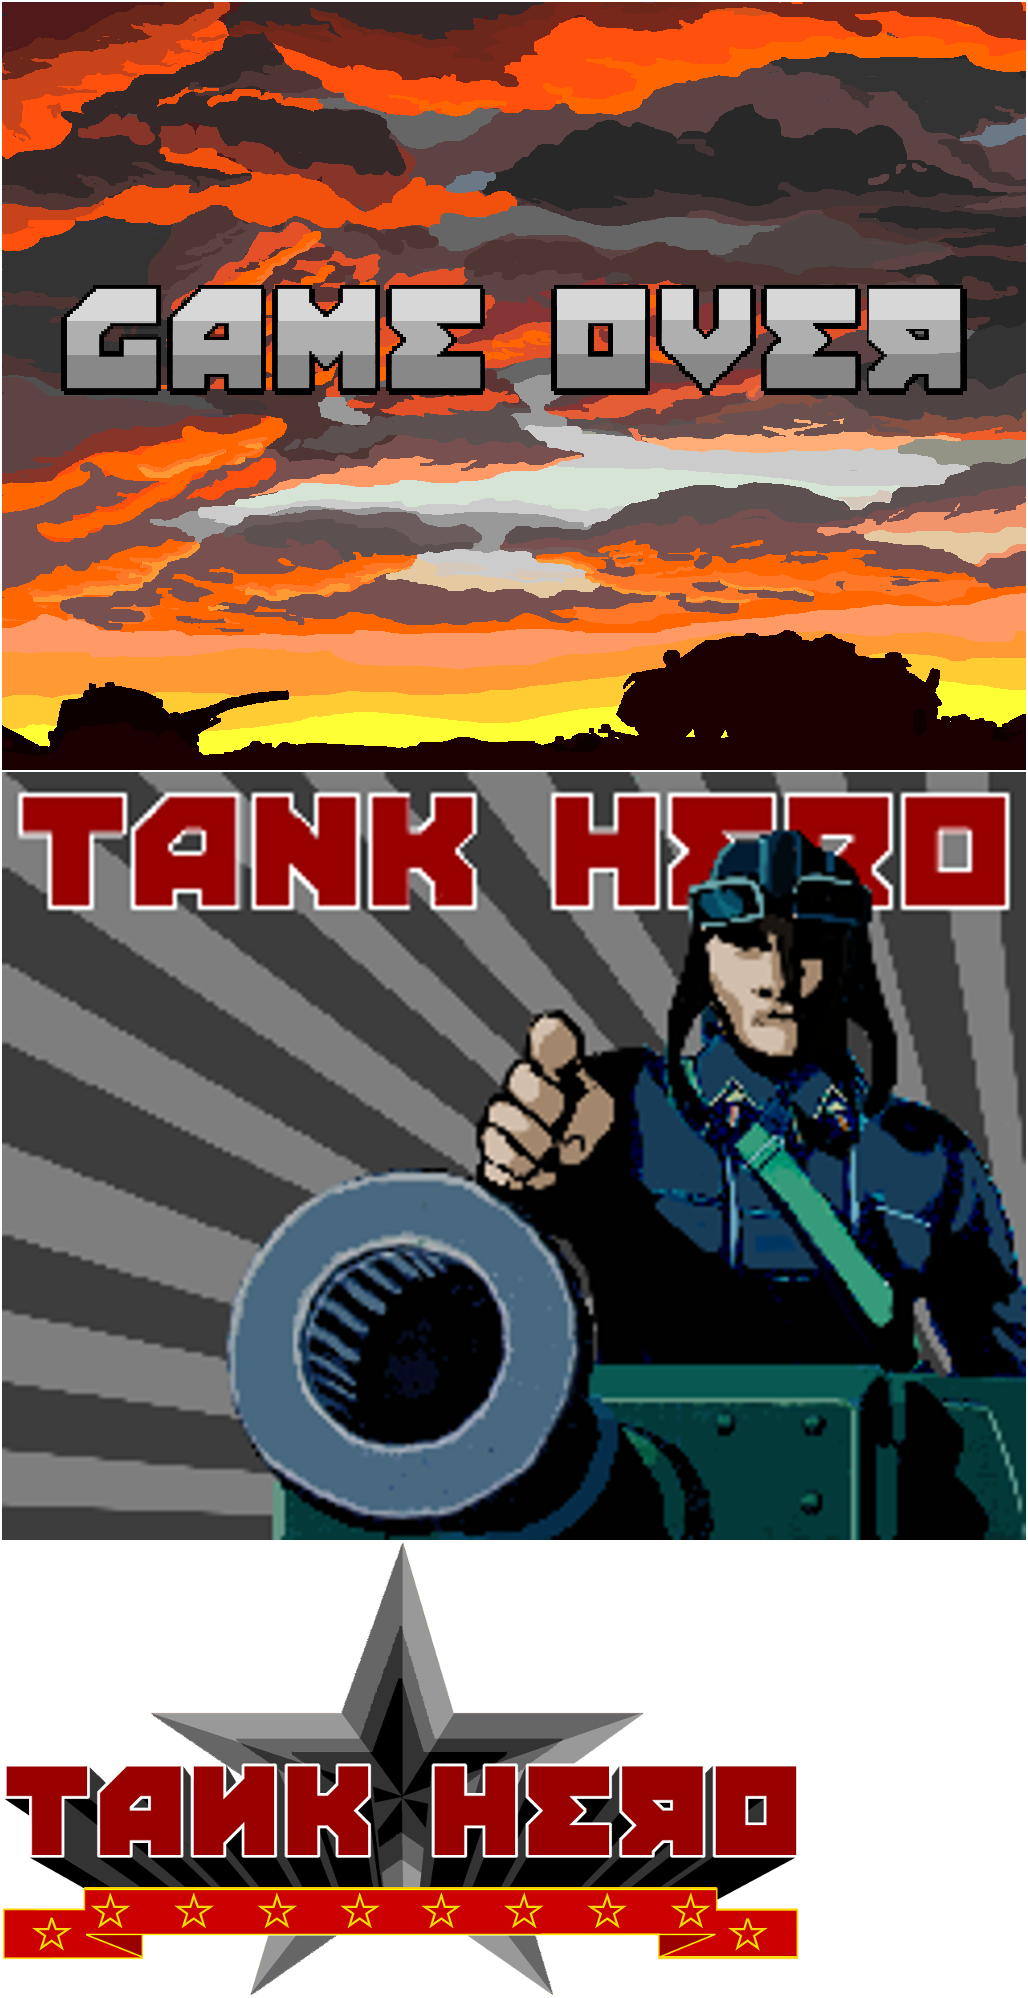
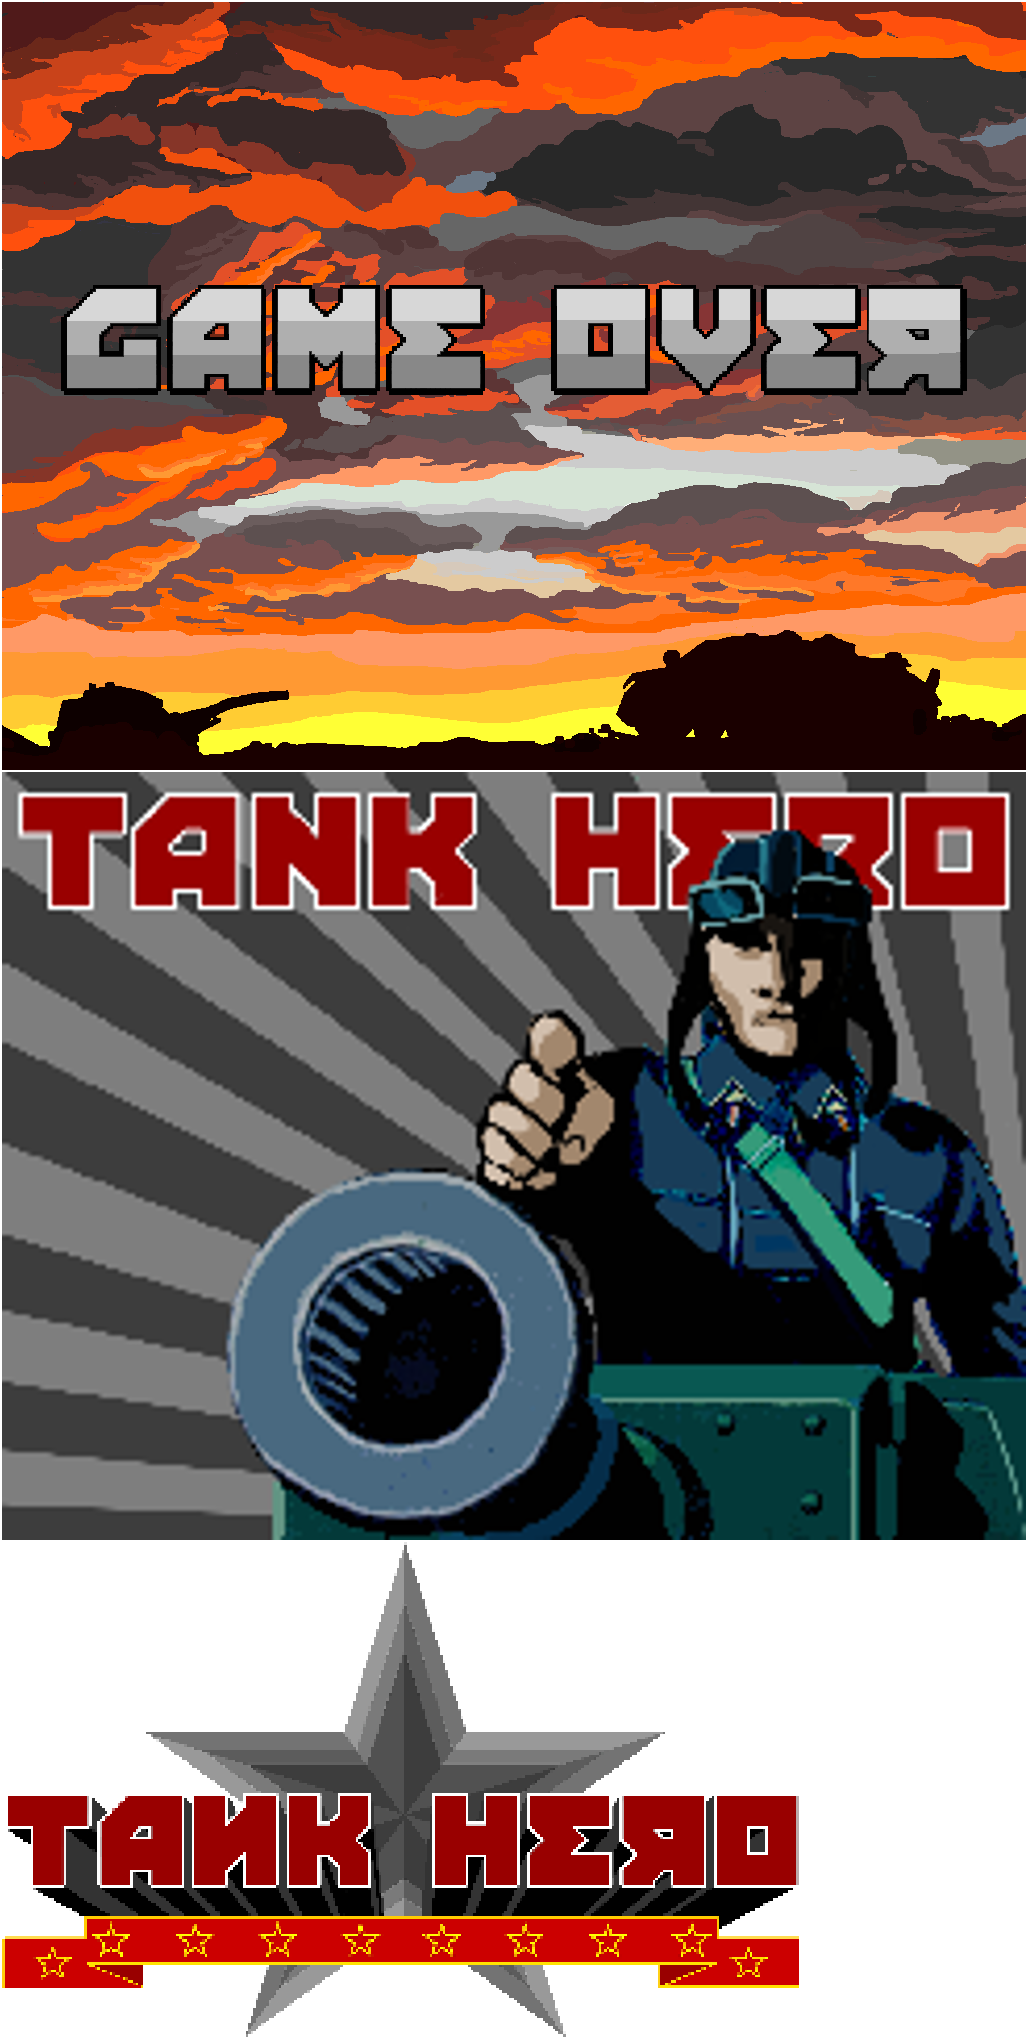
updated panther explosion an imation, bomb explosion, and  title assets

diff --git a/app/scripts/lib/pool.js b/app/scripts/lib/pool.js
@@ -28,7 +28,7 @@ var Pool = (function() {
 
     // Panther Explosions
     container.pantherExplosions = new Phaser.Group(game, game.world, 'Panther Explosions', false);
-    var pantherExplosionFrames = Phaser.Animation.generateFrameNames('panther/death', 1, 10);
+    var pantherExplosionFrames = Phaser.Animation.generateFrameNames('panther/death', 1, 14);
     for (var i = 0; i < 1; i++) {
       var explosion = new Explosion(game, pantherExplosionFrames, 12);
       explosion.scale.x = 2.0;
@@ -80,9 +80,11 @@ var Pool = (function() {
 
     // Bomb Explosions
     container.bombExplosions = new Phaser.Group(game, game.world, 'Bomb Explosions', false, false);
-    var explosionFrames = Phaser.Animation.generateFrameNames('explosion/', 1, 4);
+    var explosionFrames = Phaser.Animation.generateFrameNames('explosion/', 1, 8);
     for (var i = 0; i < 10; i++) {
-      var explosion = new Explosion(game, explosionFrames, 10);
+      var explosion = new Explosion(game, explosionFrames, 13);
+      explosion.scale.x = 3.0;
+      explosion.scale.y = 3.0;
       explosion.anchor.x = 0.5;
       explosion.anchor.y = 1.0;
       container.bombExplosions.add(explosion);

diff --git a/app/scripts/states/preload.js b/app/scripts/states/preload.js
@@ -4,10 +4,10 @@ var States  = States || {}
 
 Preload.preload = function() {
   console.log('Loading game assets');
-  var logo = this.add.image(this.game.width/2, this.game.height/2, 'fullscreen', 'title');
+  var logo = this.add.image(this.game.width/2, this.game.height/2, 'fullscreen', '8bit');
   logo.anchor.x = 0.5;
   logo.anchor.y = 0.5;
-  
+
   this.load.atlasJSONHash(
     'environment',
     'assets/images/environment.png',

diff --git a/app/scripts/entities/bomb.js b/app/scripts/entities/bomb.js
@@ -19,7 +19,7 @@ function Bomb(game) {
   this.checkWorldBounds = true;
 
   this.events.onKilled.add(function() {
-    Pool(game, false).bombExplosions.getFirstExists(false).bang(this.x, this.y - 4);
+    Pool(game, false).bombExplosions.getFirstExists(false).bang(this.x, this.y + 3);
     game.sound.play('bomb');
   }, this);
 }

diff --git a/app/index.html b/app/index.html
@@ -9,7 +9,7 @@
 
 <body>
   <div id="header">
-    <img src="assets/images/header.png" alt="Tank Hero"/>
+    <img src="assets/images/title.png" alt="Tank Hero"/>
   </div>
 
   <div id="game"></div>
